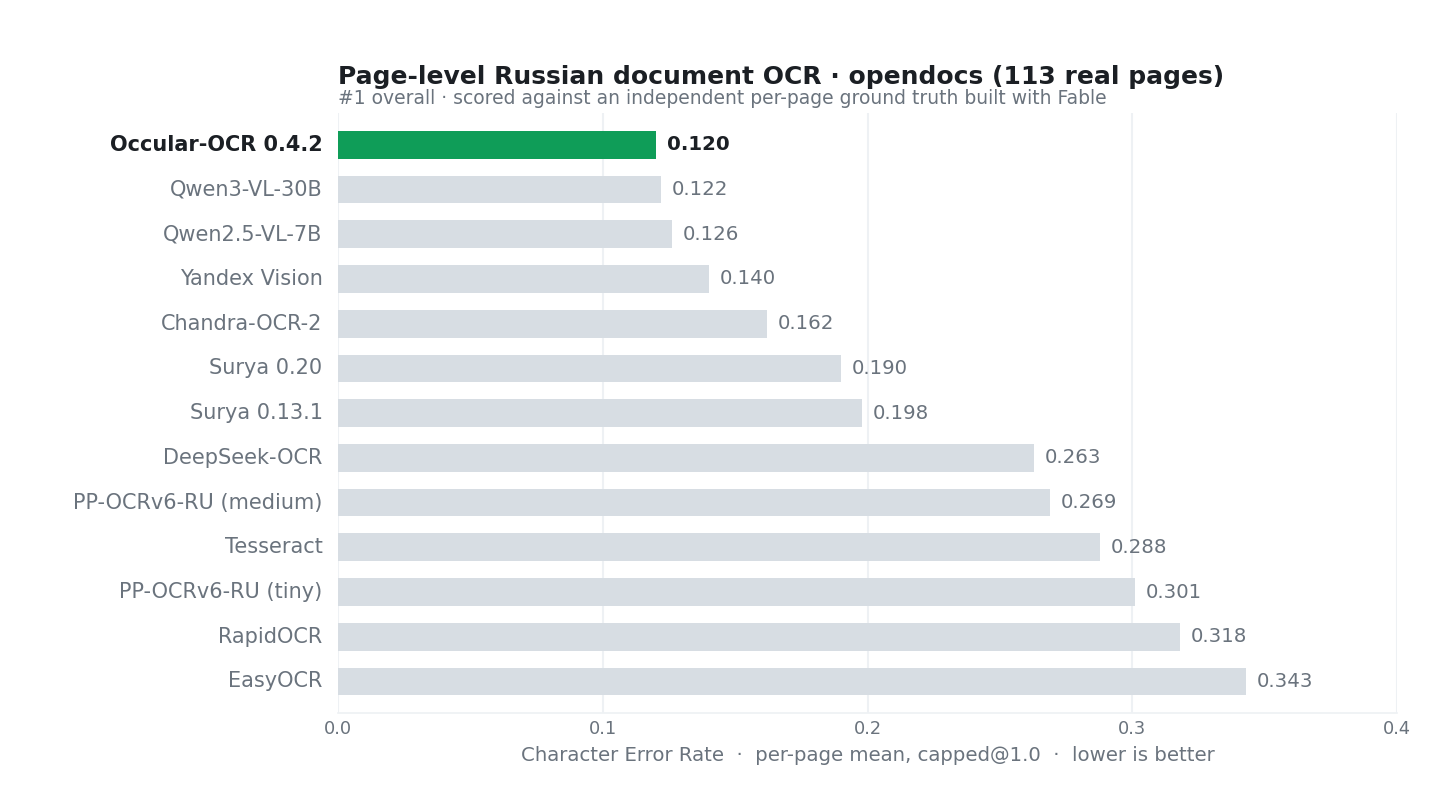
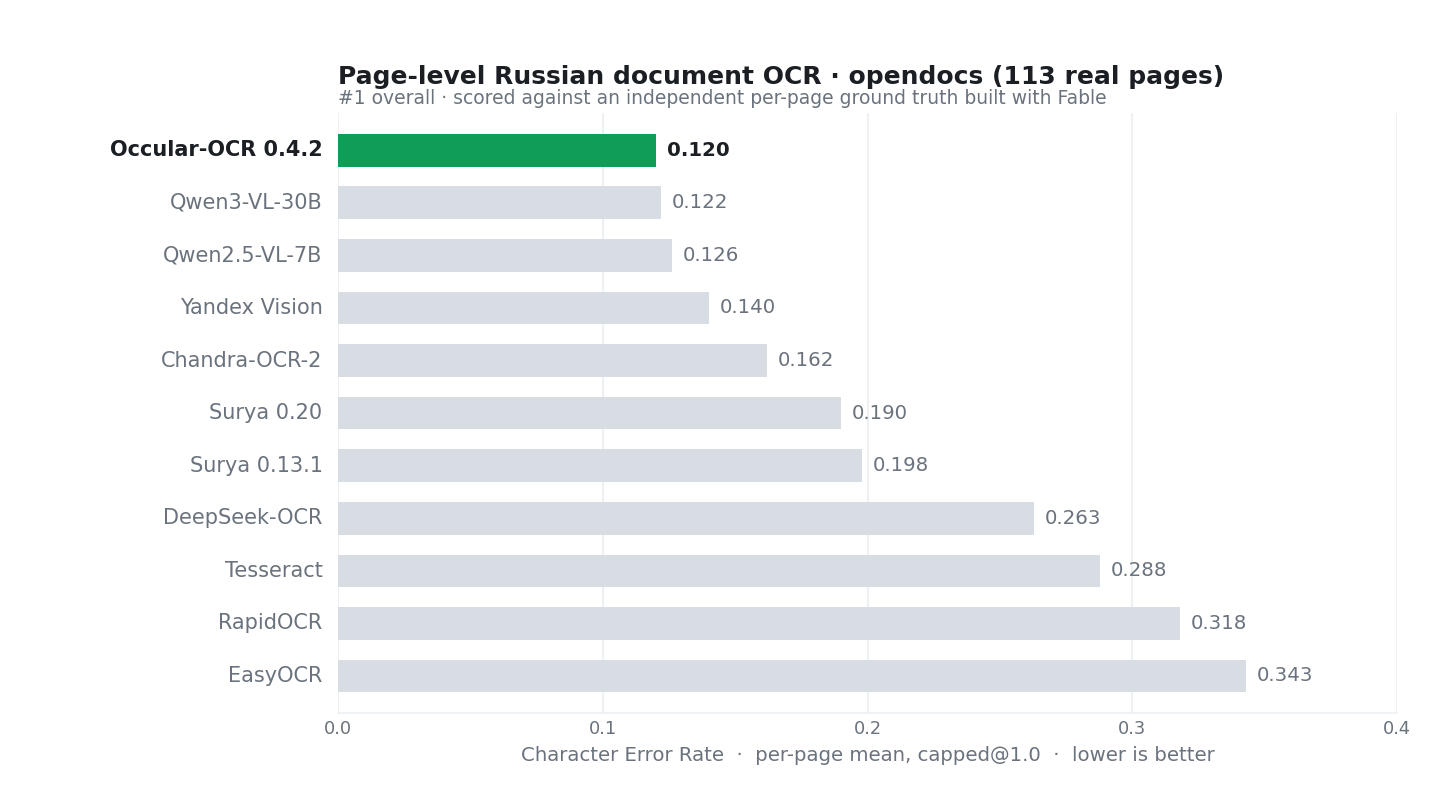
docs(readme): drop PP-OCRv6-RU (medium/tiny) from the benchmark chart
Remove both PP-OCRv6-RU bars from the opendocs chart (light+dark) and
from the figure alt text.

Changed region(s): [[0.0625, 0.1543, 0.9062, 0.8642], [0.125, 0.4938, 0.2188, 0.5247]]

diff --git a/README.md b/README.md
@@ -48,7 +48,7 @@ certificates, invoices and IDs.
 <p align="center">
   <picture>
     <source media="(prefers-color-scheme: dark)" srcset="assets/benchmark_opendocs_dark.png">
-    <img src="assets/benchmark_opendocs.png" width="90%" alt="opendocs page-level benchmark — Occular-OCR ranks #1 by character error rate against large vision-language models, Yandex Vision, Surya, Tesseract, PP-OCRv6-RU, RapidOCR and others">
+    <img src="assets/benchmark_opendocs.png" width="90%" alt="opendocs page-level benchmark — Occular-OCR ranks #1 by character error rate against large vision-language models, Yandex Vision, Surya, Tesseract, RapidOCR and others">
   </picture>
 </p>
 <p align="center"><sub>Character error rate (per-page mean, capped) on <b>113 real Russian document pages</b>, scored against an independent, per-page ground truth built with Fable. Lower is better.</sub></p>
@@ -407,7 +407,7 @@ Occular-OCR заточен под русский и читает его знач
 <p align="center">
   <picture>
     <source media="(prefers-color-scheme: dark)" srcset="assets/benchmark_opendocs_dark.png">
-    <img src="assets/benchmark_opendocs.png" width="90%" alt="Постраничный бенчмарк opendocs — Occular-OCR на 1-м месте по ошибке символов против больших vision-language моделей, Yandex Vision, Surya, Tesseract, PP-OCRv6-RU, RapidOCR и других">
+    <img src="assets/benchmark_opendocs.png" width="90%" alt="Постраничный бенчмарк opendocs — Occular-OCR на 1-м месте по ошибке символов против больших vision-language моделей, Yandex Vision, Surya, Tesseract, RapidOCR и других">
   </picture>
 </p>
 <p align="center"><sub>Ошибка символов (средняя по страницам, с отсечкой) на <b>113 реальных страницах русских документов</b>, против независимой постраничной эталонной разметки, сделанной с помощью Fable. Меньше — лучше.</sub></p>
